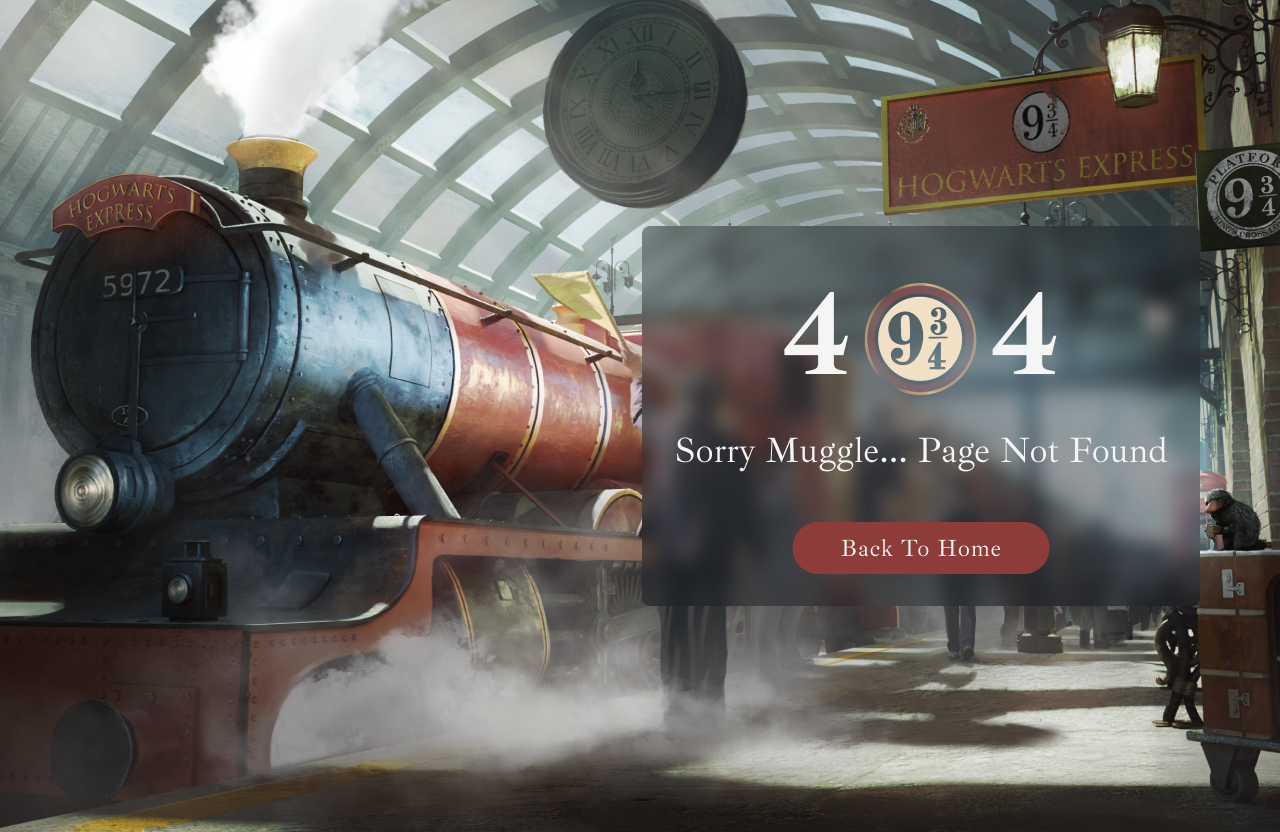
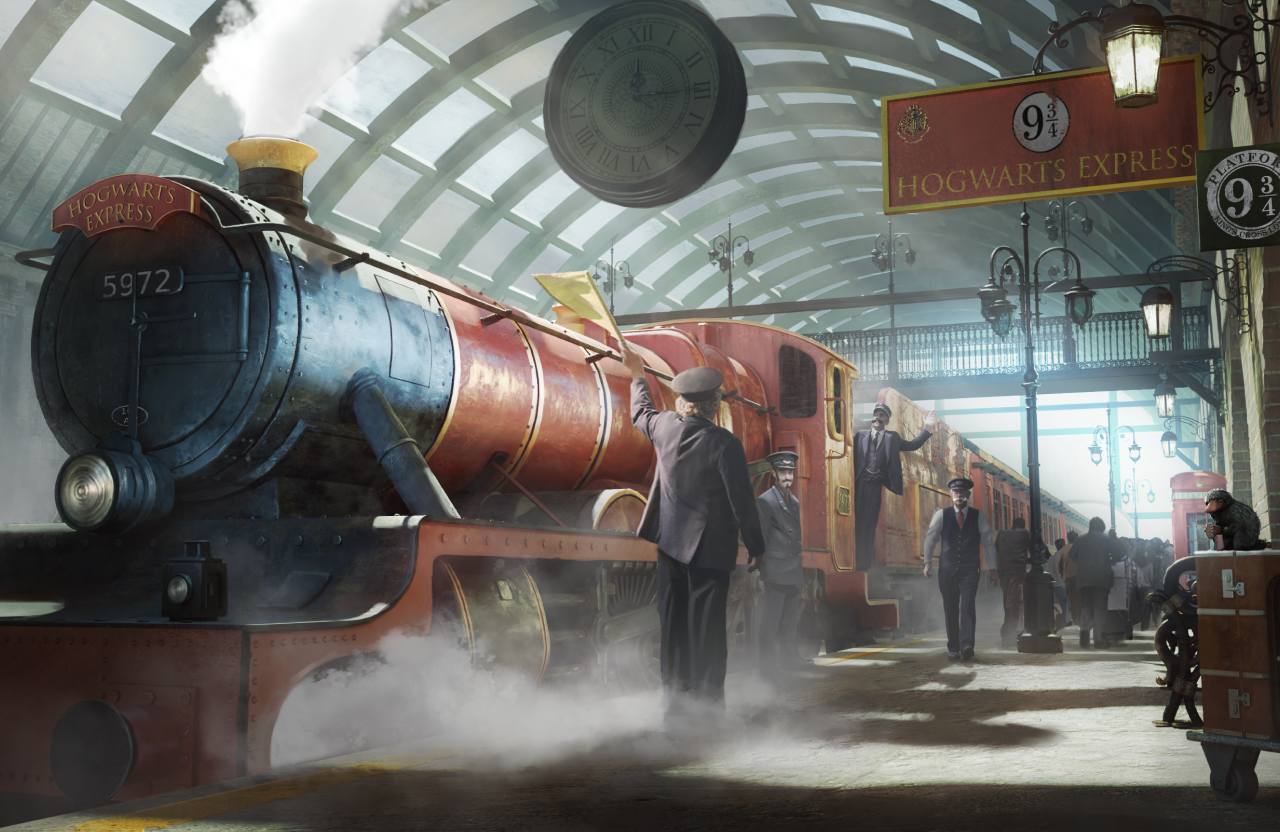
Updated background image for 404 page

Changed region(s): [[0.5, 0.25, 0.9375, 0.75]]

diff --git a/frontend/src/pages/404Page.jsx b/frontend/src/pages/404Page.jsx
@@ -1,0 +1,67 @@
+import { useState } from "react";
+import PropTypes from "prop-types";
+
+import Layout from "../components/Layout";
+import SortingHat from "../components/SortingHat";
+import CardBoard from "../components/CardBoard";
+import Score from "../components/Score";
+import Timer from "../components/Timer";
+import BackCard from "../components/BackCard";
+import ClueList from "../components/ClueList";
+
+import filterCharacters from "../helper/filterCharacters";
+import hatCard from "../helper/pickHatCard";
+
+export default function GamePage({ characters, playerInfo }) {
+  const gameDuration = 60;
+  const scoreStart = 1000;
+
+  const [filteredCharacters] = useState(filterCharacters(characters, "image"));
+  const [hatCardPick] = useState(hatCard(filteredCharacters));
+
+  const [message, setMessage] = useState({
+    category: "",
+    response: `Greetings ${playerInfo.name} from ${playerInfo.house}! \n Will you be able to find the right card? \n Click on a hint to begin...`,
+  });
+
+  const addMessage = (newMessage) => {
+    setMessage(newMessage);
+  };
+
+  return (
+    <div className="bg-[url('../assets/img/background-game-screen-desktop.png')] bg-cover">
+      <Layout>
+        <div className="layout-wrapper grid min-h-full grid-rows-[auto_1fr] justify-items-center">
+          <div className="relative -top-7 mx-auto flex justify-center gap-16">
+            <Timer gameTime={gameDuration} />
+            <Score startingScore={scoreStart} />
+          </div>
+          <div className="relative -top-3 grid min-h-full w-full grid-cols-[2fr_minmax(auto,1fr)] place-items-center">
+            <SortingHat
+              message={message}
+              hatCardPick={hatCardPick}
+              playerInfo={playerInfo}
+            />
+            <BackCard />
+            <CardBoard characters={filteredCharacters} />
+            <ClueList addMessage={addMessage} />
+          </div>
+        </div>
+      </Layout>
+    </div>
+  );
+}
+
+GamePage.propTypes = {
+  characters: PropTypes.arrayOf(
+    PropTypes.shape({
+      id: PropTypes.string.isRequired,
+      name: PropTypes.string.isRequired,
+      image: PropTypes.string.isRequired,
+    })
+  ).isRequired,
+  playerInfo: PropTypes.shape({
+    name: PropTypes.string.isRequired,
+    house: PropTypes.string.isRequired,
+  }).isRequired,
+};
